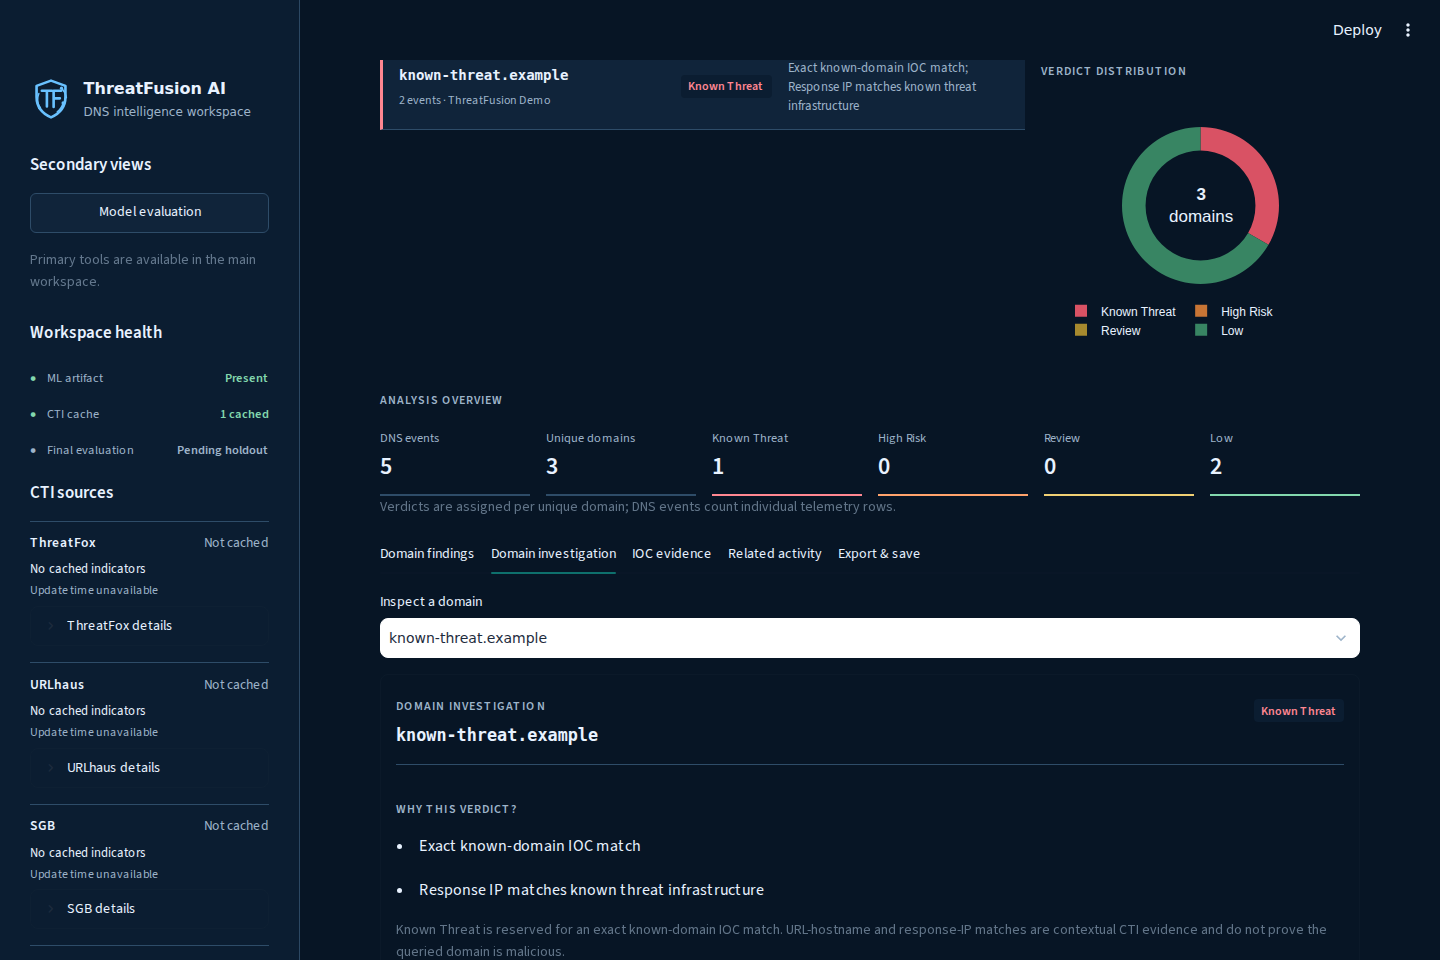
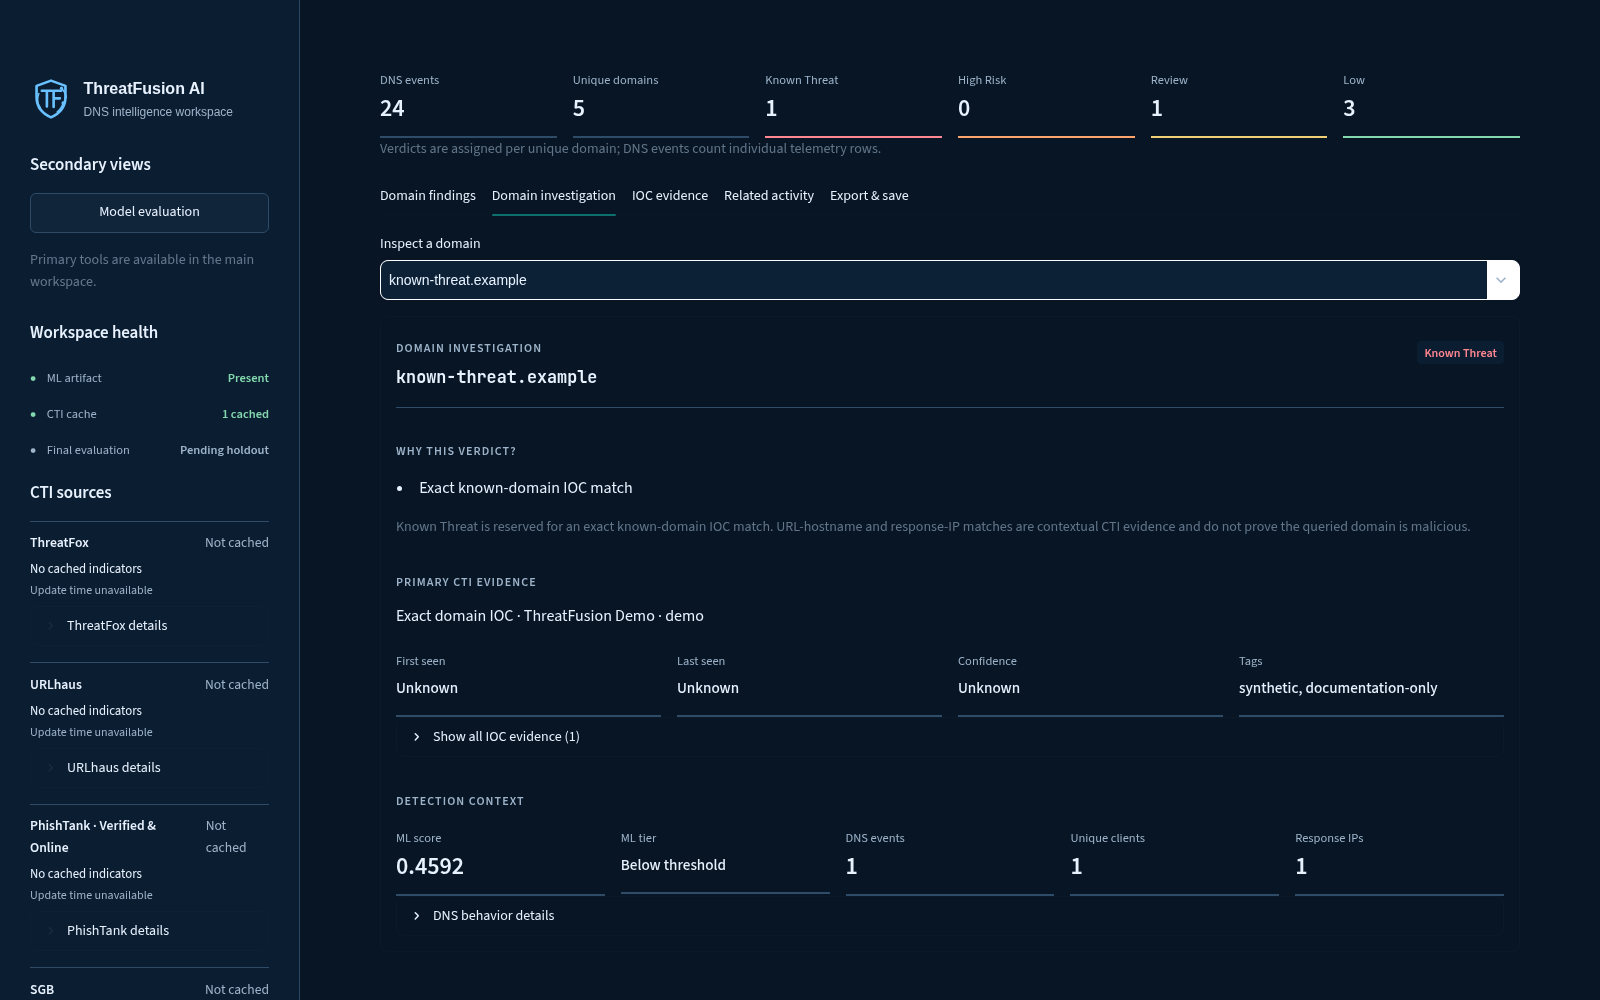
[skip render] Refresh current interface screenshots with synthetic local data

diff --git a/docs/RELEASE_HANDOFF.md b/docs/RELEASE_HANDOFF.md
@@ -278,7 +278,8 @@ to defer promotion; they are not new tuning data. See DEC-082.
   proxy limits and real WebSocket-session checks all passed.
 - The three existing portfolio screenshots were reviewed visually: they use
   inert `.example` synthetic findings and show no private telemetry or secrets.
-  PNG metadata and EXIF are empty. No screenshot regeneration was necessary.
+  PNG metadata and EXIF were empty. This historical review is superseded by
+  the current interface captures recorded below.
 
 ## Remaining release gates
 
@@ -310,3 +311,19 @@ to defer promotion; they are not new tuning data. See DEC-082.
 
 Do not create final ML metrics from the synthetic demo artifact or substitute
 an older holdout for the lexical candidate.
+
+## Current interface screenshots (2026-10-04)
+
+- Replaced Quick Lookup, telemetry overview and domain investigation PNGs used
+  by both README languages with actual current Streamlit UI captures.
+- Captured with isolated Chromium on 127.0.0.1, English/Mid theme and a separate
+  temporary synthetic-only runtime. The input contains 24 events across five
+  reserved example domains; no upstream feeds, private data or API keys used.
+- Browser verification exercised lookup, CSV upload, analysis and investigation.
+  Screenshots were reviewed visually and checked for empty PNG/EXIF metadata.
+  The 48 targeted UI/theme/release-audit tests passed; all 32 previously recorded
+  local data files retain their original checksums.
+  Source model policy, private artifacts and runtime promotion are unchanged.
+- Source-only main update uses [skip render]; the Render service was confirmed
+  user-suspended with previews disabled before publication. No public site
+  deployment is authorized.

diff --git a/docs/UI_REVIEW.md b/docs/UI_REVIEW.md
@@ -69,3 +69,18 @@ The browser runtime and screenshots use reserved documentation domains and synth
 ## Follow-up screenshot set
 
 For review on your own trusted local data, capture: Analyze telemetry with CTI sidebar and priority queue; an investigated domain with evidence; Analysis history with feedback; Model evaluation with operating points; and a 390 px light-mode view. Redact sensitive information. Screenshots from this implementation run are supplied separately in the task outputs.
+
+## Current README captures (2026-10-04)
+
+The three images in `docs/screenshots/` now show the current interface, including
+the main workspace launcher and language/theme controls. Quick Lookup uses
+`known-threat.example`; the overview and investigation use the deterministic
+24-row synthetic DNS fixture (five domains).
+
+The capture used `prepare_local_environment(..., "demo", ...)` in a new temporary
+directory, the matching synthetic CTI database, and a fresh headless Chromium
+profile. Streamlit bound only to 127.0.0.1; usage statistics were disabled. No
+real feeds or developer runtime were loaded. Lookup, file upload, analysis and
+the investigation tab were exercised through the real browser. Images contain
+no added overlays and no PNG/EXIF metadata. The temporary server was stopped
+after capture. These captures supersede the earlier portfolio screenshot set.

diff --git a/CHANGELOG.md b/CHANGELOG.md
@@ -12,6 +12,9 @@ release date is added only when the final tag/release is created.
 
 ### Added
 
+- Refreshed the three README interface screenshots from the current local UI,
+  using only an isolated synthetic runtime and reserved demo telemetry.
+
 - One-command Linux x86_64/glibc first installation without preinstalled
   Python/Git or sudo: fixed uv archive checksum, private Python 3.12.14, 49
   pinned/hash-required wheel dependencies and immutable source checkout.
